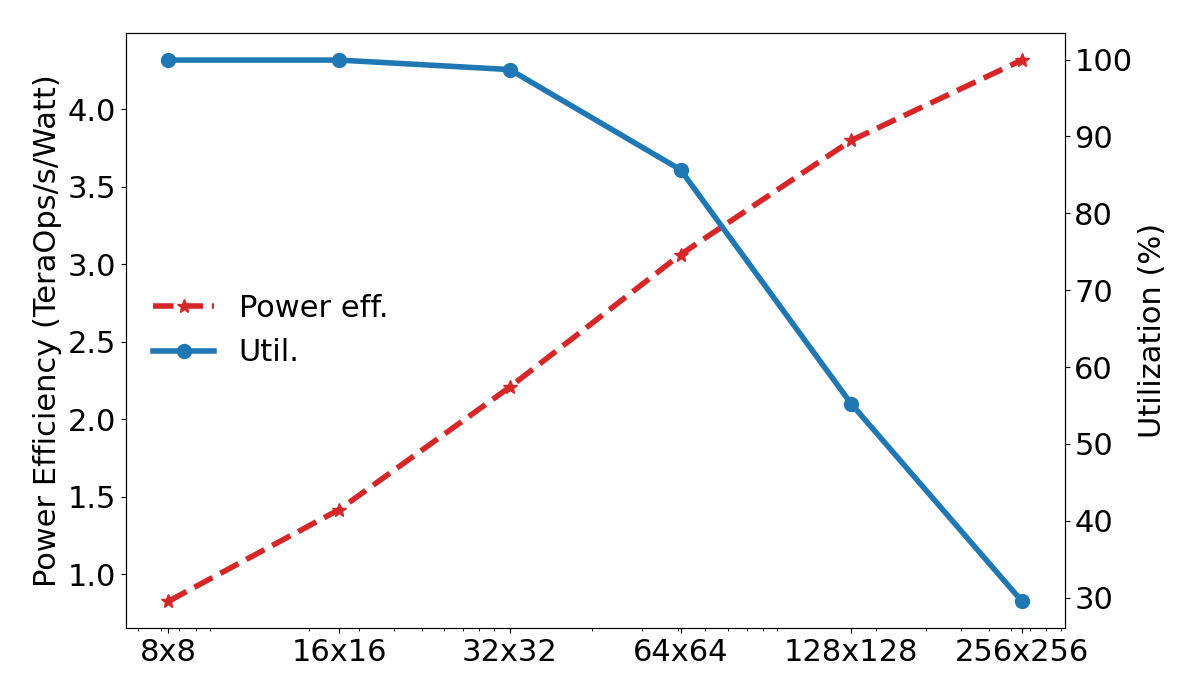
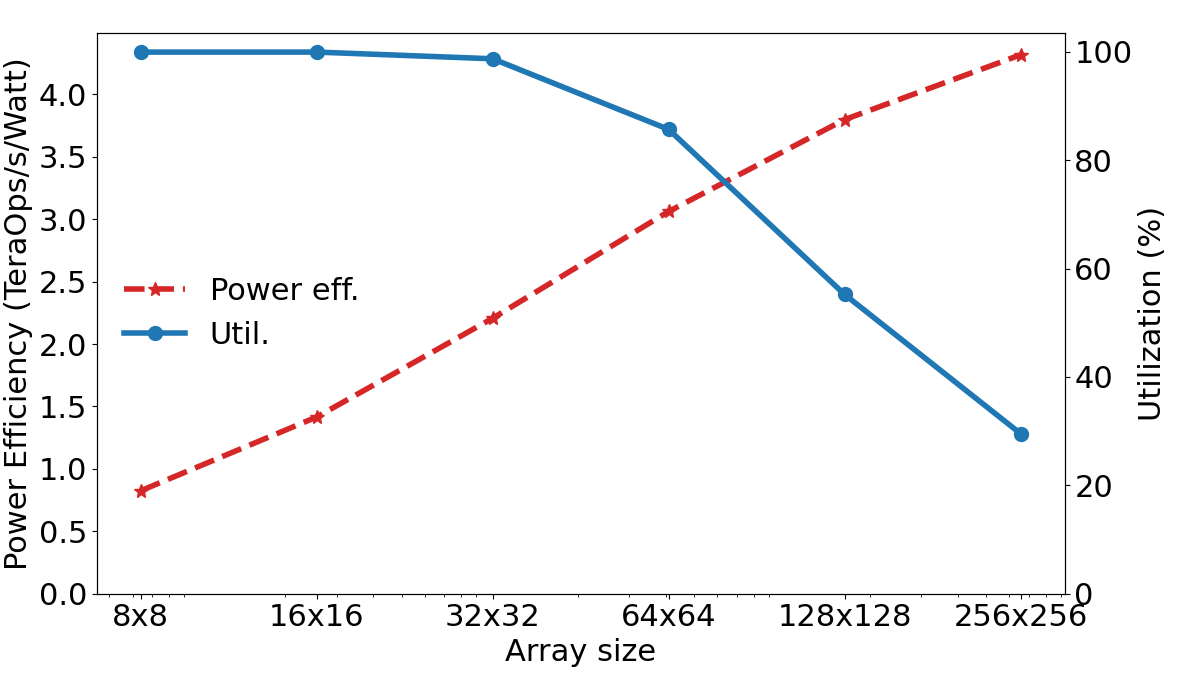
power tradeoff plots

diff --git a/power_tradeoff.py b/power_tradeoff.py
@@ -61,6 +61,8 @@ lns1 = ax1.plot([k[0]*k[1] for k in power], [power[k]["total"] for k in power], 
 # plt.plot([k[0]*k[1] for k in power], [power[k]["compute"] for k in power], 'o-', label='Total', linewidth=3, markersize=10)
 
 plt.ylabel("Power Efficiency (TeraOps/s/Watt)")
+plt.xlabel('Array size')
+plt.ylim(bottom=0)
 
 ax2 = ax1.twinx()
 plt.sca(ax2)
@@ -69,16 +71,17 @@ lns2 = ax2.plot([k[0]*k[1] for k in util["inception"]], [util["inception"][k] fo
 
 plt.xscale('log')
 
-plt.xlabel('Systolic array size')
 plt.ylabel('Utilization (%)')
 
 # plt.xlim(left=64)
-# plt.ylim(top=5, bottom=0)
+plt.ylim(bottom=0)
 plt.xticks([8*8, 16*16, 32*32, 64*64, 128*128, 256*256],['8x8', '16x16', '32x32', '64x64', '128x128','256x256'])
 
 lns = lns1+lns2
 labs = [l.get_label() for l in lns]
 plt.legend(lns, labs, loc='center left', frameon=False)
+
+
 
 plt.tight_layout()
 plt.savefig('power_tradeoff.png')
